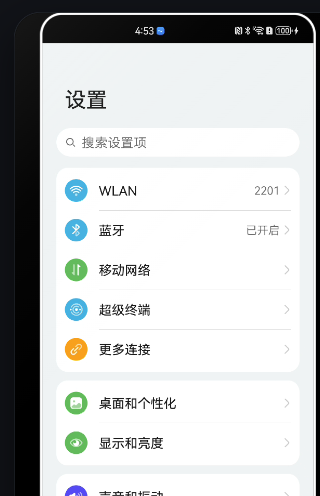
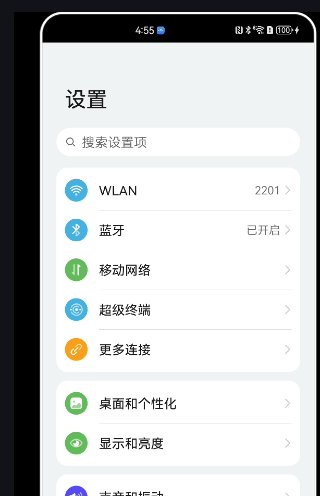
style: remove the outer container border and rounded corners
- Keep the picture's radius, white ring and 2px spacing, but drop the
  container's border/radius/shadow and curved highlight so the right tool
  rail is no longer wrapped in a frame.
- Refresh README screenshots.

diff --git a/web/styles.css b/web/styles.css
@@ -75,32 +75,13 @@ body {
    and a narrow control rail; we only need the video cell to fill the space
    and to scale with the device aspect ratio. */
 #stream {
-  position: relative;
   flex: 1;
   min-height: 0;
   display: flex;
   align-items: center;
   justify-content: center;
   overflow: hidden;
-  background: #050609;
-  border: 1px solid #2a2f38;
-  border-radius: 26px;
-  box-shadow:
-    inset 0 0 0 1px rgb(255 255 255 / 30%),
-    inset 0 0 34px rgb(255 255 255 / 6%),
-    0 18px 44px rgb(0 0 0 / 55%);
-}
-
-/* Faint diagonal highlight for the curved-glass look. pointer-events:none
-   keeps the touch canvas underneath fully usable. */
-#stream::after {
-  content: "";
-  position: absolute;
-  inset: 0;
-  z-index: 1;
-  border-radius: inherit;
-  pointer-events: none;
-  background: linear-gradient(135deg, rgb(255 255 255 / 9%) 0%, rgb(255 255 255 / 2%) 22%, transparent 45%);
+  background: #000;
 }
 
 #stream .device-view {

diff --git a/README.md b/README.md
@@ -39,7 +39,7 @@ v0.5.13，Home / Back / 音量 / 电源等按键走一条轻量 ADB 控制桥。
 - **全屏镜像**：整台手机画面实时投到浏览器，不是单个 App 的截图。
 - **网页反控**：右侧窄工具栏里的 `电源 / 音量+ / 音量− / 返回 / 主页 / 多任务` 六个系统按键；顶部导航栏已隐藏，所有操作集中在右侧。
 - **自然交互**：鼠标左键点击和拖拽等价于手指触摸；滚轮上下滚动手机页面；右键映射为手机返回键，浏览器右键菜单已被禁用。
-- **屏幕外观**：画面为圆角矩形，带白色描边和上下各 2px 间隔；投屏区域另有边框、内阴影和斜向高光，呈现立体曲面效果。
+- **屏幕外观**：画面为圆角矩形，带白色描边和上下各 2px 间隔；外侧容器不加边框、圆角或阴影。
 - **设置面板**：右侧工具栏的齿轮按钮可设置分辨率、帧率、码率、音频、语言、字体与导航条/状态条尺寸，改动立即生效并自动重启画面流。
 - **状态联动**：每 3 秒轮询手机锁屏/休眠状态并显示在状态栏，锁屏黑屏时给出明确提示。
 - **多语言界面**：中文 / 英文，在设置面板切换，默认跟随浏览器语言，即时生效无需刷新；按钮文字、状态提示、锁屏/剪贴板提示、右侧工具栏的悬浮提示（tooltip），以及引擎直接绘制在画面上的画质统计文字都会一起翻译。
